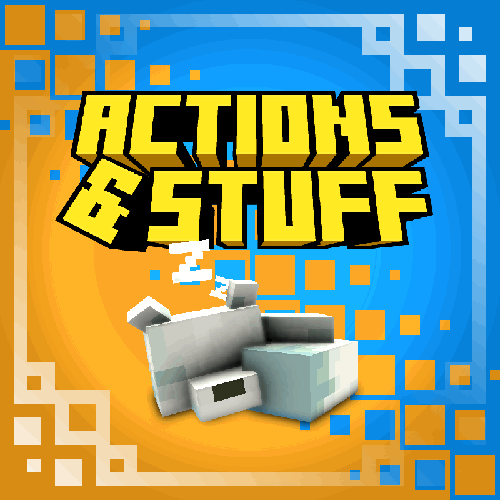
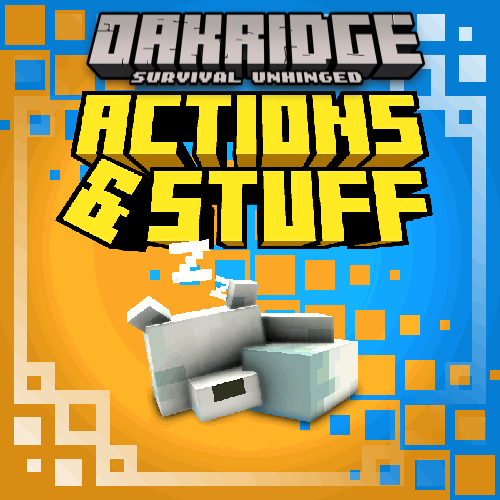
v1.5 Eliminating Conflicts and Removing Player
Player animations will be readded once https://bugs.mojang.com/browse/MCPE-74493 is fixed.

Changed region(s): [[0.15, 0.0, 0.87, 0.21]]

diff --git a/README.md b/README.md
@@ -1,2 +1,2 @@
 # Actions-N-Stuff
-AvgZing's modified version of the Actions N Stuff 1.0.2 Beta for the Oakridge: Survival Unhinged Server
+AvgZing's modified version of the Actions N Stuff 1.0.2 Beta for the Oakridge: Survival Unhinged Server. This eliminates unnecesary pack conflicts with Oakridge modifications. NOTE: This also eliminates armor stand animations due to other conflicts, as well as player animations due to [MCPE-74493](https://bugs.mojang.com/browse/MCPE-74493).
